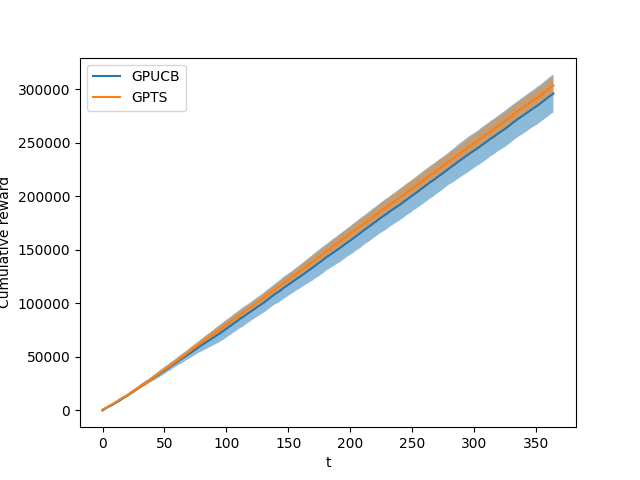
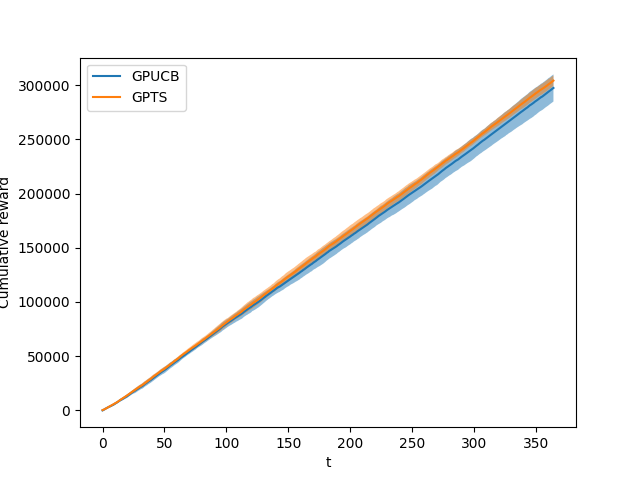
Fixes to step4

diff --git a/step4.py b/step4.py
@@ -21,8 +21,8 @@ def generateContext(n_arms, rewards, pulled_arms, pulled_arms_features, features
 
 	delta = 1
 	for feature in features:
-		indexes1 = np.array( [ i for i,pulled_features in enumerate(pulled_arms_features) if pulled_features[feature] ] )
-		indexes2 = np.array( [ i for i,pulled_features in enumerate(pulled_arms_features) if not pulled_features[feature] ] )
+		indexes1 = np.array( [ i for i,pulled_features in enumerate(pulled_arms_features) if feature in pulled_features and pulled_features[feature] ] )
+		indexes2 = np.array( [ i for i,pulled_features in enumerate(pulled_arms_features) if feature in pulled_features and not pulled_features[feature] ] )
 		
 		if len(indexes1) == 0 or len(indexes2) == 0:
 			continue
@@ -45,14 +45,14 @@ def generateContext(n_arms, rewards, pulled_arms, pulled_arms_features, features
 		expected_reward2 = max(tmp) - np.sqrt(-np.log(delta)/(2*len(rewards2) + 1))
 		
 		tmp = [0] * n_arms
-		for i in range(len(rewards)):
-			tmp[pulled_arms[i]] += rewards[i]
+		for arm, reward in list(zip(np.append(arms1, arms2), np.append(rewards1, rewards2))):
+			tmp[arm] += reward
 		for i in range(n_arms):
-			tmp[i] = tmp[i] / (sum(pulled_arms == i) + 1)
-		expected_reward = max(tmp) - np.sqrt(-np.log(delta)/(2*len(rewards) + 1))
+			tmp[i] = tmp[i] / (sum(np.append(arms1, arms2) == i) + 1)
+		expected_reward = max(tmp) - np.sqrt(-np.log(delta)/(2*len(np.append(rewards1, rewards2) + 1)))
 		
-		prob1 = len(rewards1)/len(rewards) - np.sqrt(-np.log(delta)/(2*len(rewards1) + 1))
-		prob2 = len(rewards2)/len(rewards) - np.sqrt(-np.log(delta)/(2*len(rewards2) + 1))
+		prob1 = len(rewards1)/(len(rewards1) + len(rewards2)) - np.sqrt(-np.log(delta)/(2*len(rewards1) + 1))
+		prob2 = len(rewards2)/(len(rewards1) + len(rewards2)) - np.sqrt(-np.log(delta)/(2*len(rewards2) + 1))
 		
 		print(f'prob1: {prob1}, prob2: {prob2}, exp1: {expected_reward1}, exp2: {expected_reward2}, exp: {expected_reward}')
 		if prob1*expected_reward1 + prob2*expected_reward2 >= expected_reward:
@@ -88,7 +88,7 @@ T = 365 #horizon ricordarsi di cambiare prima del run finale perchè deve essere
 n_experiment = 10
 
 customers = []
-customers.append(Customer('C1', -0.0081, 0.97, 32, 3.8, -1.5, 0.1, 100, {'student': True, 'commuter': True}))
+customers.append(Customer('C1', -0.0081, 0.97, 32, 3.8, -1.5, 0.1, 100, {'student': True}))
 customers.append(Customer('C2', -0.079, 0.89, 46, 3.4, -0.5, -1.5, 80, {'student': False, 'commuter': True}))
 customers.append(Customer('C3', -0.082, 0.79, 35, 3.3, -5, 0.3, 65, {'student': False, 'commuter': False}))
 
@@ -118,8 +118,8 @@ for e in range(0,n_experiment):
 		sold, clicks, clicks_cost, features = env.getReward(pulled_price, pulled_bid)
 		reward = sold * margin[pulled_price] - clicks * clicks_cost
 		gpts_learner.update(pulled_bid, reward, features)
-		ts_learner.update(pulled_price, reward, sold, clicks, features)
-		
+		ts_learner.update(pulled_price, sold * margin[pulled_price] / max([clicks,1]), sold, clicks, features)
+
 		#gpucb Learner
 		beta = 2 * np.log(n_arms_ad * t**2 * np.pi**2 / (6 * 0.05))
 		pulled_bid = gpucb_learner.pull_arm(beta, features)
@@ -127,22 +127,22 @@ for e in range(0,n_experiment):
 		sold, clicks, clicks_cost, features = env.getReward(pulled_price, pulled_bid)
 		reward = sold * margin[pulled_price] - clicks * clicks_cost
 		gpucb_learner.update(pulled_bid, reward, features)
-		ucb1_learner.update(pulled_price, reward, features)
+		ucb1_learner.update(pulled_price, sold * margin[pulled_price] / max([clicks,1]), features)
 		
-		if t%14 == 0:
-			contexts = generateContext(n_arms_pr, ucb1_learner.collected_rewards, ucb1_learner.pulled_arms_idx, ucb1_learner.pulled_features, ['student', 'commuter'])
-			ucb1_learner.updateContexts(contexts)
-			print(f'1: Context at time {t} for experiment {e}: {contexts}')
-			contexts = generateContext(n_arms_pr, ts_learner.collected_rewards, ts_learner.pulled_arms_idx, ts_learner.pulled_features, ['student', 'commuter'])
-			ts_learner.updateContexts(contexts)
-			print(f'2: Context at time {t} for experiment {e}: {contexts}')
+		# if t%14 == 0:
+			# contexts = generateContext(n_arms_pr, ucb1_learner.collected_rewards, ucb1_learner.pulled_arms_idx, ucb1_learner.pulled_features, ['student', 'commuter'])
+			# ucb1_learner.updateContexts(contexts)
+			# print(f'1: Context at time {t} for experiment {e}: {contexts}')
+			# contexts = generateContext(n_arms_pr, ts_learner.collected_rewards, ts_learner.pulled_arms_idx, ts_learner.pulled_features, ['student', 'commuter'])
+			# ts_learner.updateContexts(contexts)
+			# print(f'2: Context at time {t} for experiment {e}: {contexts}')
 			
-			contexts = generateContext(n_arms_ad,gpucb_learner.collected_rewards, gpucb_learner.pulled_arms_idx, gpucb_learner.pulled_features, ['student', 'commuter'])
-			gpucb_learner.updateContexts(contexts)
-			print(f'3: Context at time {t} for experiment {e}: {contexts}')
-			contexts = generateContext(n_arms_ad, gpts_learner.collected_rewards, gpts_learner.pulled_arms_idx, gpts_learner.pulled_features, ['student', 'commuter'])
-			gpts_learner.updateContexts(contexts)
-			print(f'4: Context at time {t} for experiment {e}: {contexts}')
+			# contexts = generateContext(n_arms_ad,gpucb_learner.collected_rewards, gpucb_learner.pulled_arms_idx, gpucb_learner.pulled_features, ['student', 'commuter'])
+			# gpucb_learner.updateContexts(contexts)
+			# print(f'3: Context at time {t} for experiment {e}: {contexts}')
+			# contexts = generateContext(n_arms_ad, gpts_learner.collected_rewards, gpts_learner.pulled_arms_idx, gpts_learner.pulled_features, ['student', 'commuter'])
+			# gpts_learner.updateContexts(contexts)
+			# print(f'4: Context at time {t} for experiment {e}: {contexts}')
 
 	gpts_rewards_per_experiment.append(gpts_learner.collected_rewards)
 	gpucb_rewards_per_experiment.append(gpucb_learner.collected_rewards)

diff --git a/Learners.py b/Learners.py
@@ -104,7 +104,7 @@ class TS_Context_Learner(Learner):
 		for i,context in enumerate(self.contexts):
 			if context.items() <= features.items():
 				return np.argmax(np.random.beta(self.beta_parameters[i,:,0], self.beta_parameters[i,:,1])*self.margin[:])
-		return None
+		return np.argmax(np.random.beta(np.sum(self.beta_parameters[:,:,0], axis=0)/50, np.sum(self.beta_parameters[:,:,1], axis=0)/50) * self.margin[:])
 
 	def update(self, pulled_arm, reward,sold,clicks, features):
 		self.t+=1
@@ -114,6 +114,11 @@ class TS_Context_Learner(Learner):
 			if context.items() <= features.items():
 				self.beta_parameters[i, pulled_arm, 0] = self.beta_parameters[i, pulled_arm, 0] + sold
 				self.beta_parameters[i, pulled_arm, 1] = self.beta_parameters[i, pulled_arm, 1] + clicks - sold
+				return
+				
+		for i,context in enumerate(self.contexts):
+			self.beta_parameters[i, pulled_arm, 0] = self.beta_parameters[i, pulled_arm, 0] + sold
+			self.beta_parameters[i, pulled_arm, 1] = self.beta_parameters[i, pulled_arm, 1] + clicks - sold
 		
 	def update_observations(self,arm_idx, reward, features):
 		super().update_observations(arm_idx,reward)
@@ -121,7 +126,14 @@ class TS_Context_Learner(Learner):
 		self.pulled_features.append(features)
 
 	def updateContexts(self, contexts):
-		new_beta_parameters = np.ones((len(contexts), self.n_arms, 2))
+		new_beta_parameters = np.zeros((len(contexts), self.n_arms, 2))
+		for i in range(len(contexts)):
+			for j in range(len(self.contexts)):
+				new_beta_parameters[i,:,0] += self.beta_parameters[j,:,0]
+				new_beta_parameters[i,:,1] += self.beta_parameters[j,:,1]
+			new_beta_parameters[i,:,0] = new_beta_parameters[i,:,0] / len(self.contexts) / 10
+			new_beta_parameters[i,:,1] = new_beta_parameters[i,:,1] / len(self.contexts) / 10
+			
 		for i, new_context in enumerate(contexts):
 			for j, old_context in enumerate(self.contexts):
 				if old_context.items() <= new_context.items():
@@ -159,15 +171,28 @@ class UCB1_Context_Learner(Learner):
 					self.ucb_values[arm] = average_reward + exploration_term
 
 				return np.argmax(self.ucb_values)
-		return None
+				
+		for arm in range(self.n_arms):
+			average_reward = np.mean([np.mean(self.rewards_per_arm[i, arm]) for i in range(len(self.contexts))])
+			exploration_term = math.sqrt(2 * math.log(max([1, self.t / len(self.contexts)])) / np.sum(self.pulled_arms_counts[:, arm]))
+			self.ucb_values[arm] = average_reward + exploration_term
+
+		return np.argmax(self.ucb_values)
 
 	def update(self, pulled_arm, reward, features):
+		self.t += 1
 		self.update_observations(pulled_arm, reward, features)
+		
 		for i,context in enumerate(self.contexts):
 			if context.items() <= features.items():
 				self.rewards_per_arm[i, pulled_arm].append(reward)
 				self.pulled_arms_counts[i, pulled_arm] += 1
-		self.t += 1
+				return
+				
+		for i,context in enumerate(self.contexts):
+			self.rewards_per_arm[i, pulled_arm].append(reward)
+			self.pulled_arms_counts[i, pulled_arm] += 1
+		
 	
 	def update_observations(self, arm_idx, reward, features):
 		self.collected_rewards = np.append(self.collected_rewards, reward)
@@ -176,34 +201,18 @@ class UCB1_Context_Learner(Learner):
 		self.pulled_features.append(features)
 
 	def updateContexts(self, contexts):
-		new_rewards_per_arm = np.empty((len(contexts), self.n_arms), dtype='O')
+		self.contexts = contexts
+		self.rewards_per_arm = np.empty((len(contexts), self.n_arms), dtype='O')
 		for j in range(self.n_arms):
 			for i in range(len(contexts)):
-				new_rewards_per_arm[i,j] = []
-		new_pulled_arms_counts = np.zeros((len(contexts), self.n_arms))
-		
-		for i, new_context in enumerate(contexts):
-			for j, old_context in enumerate(self.contexts):
-				if old_context.items() <= new_context.items():
-					new_rewards_per_arm[i] =  copy.deepcopy(self.rewards_per_arm[j])
-					new_pulled_arms_counts[i] = copy.deepcopy(self.pulled_arms_counts[j])
-					
-		self.rewards_per_arm = new_rewards_per_arm
-		self.pulled_arms_counts = new_pulled_arms_counts
-		self.contexts = contexts
-		
-		# self.contexts = contexts
-		# self.rewards_per_arm = np.empty((0, n_arms, 0))
-		# self.pulled_arms_counts = np.zeros((0, n_arms))
+				self.rewards_per_arm[i,j] = []
+		self.pulled_arms_counts = np.zeros((len(contexts), self.n_arms))
 
-		# for context in contexts:
-			# self.rewards_per_arm = np.append(self.rewards_per_arm, np.empty(n_arms, 0))
-			# self.pulled_arms_counts = np.append(self.pulled_arms_counts, np.zeros(n_arms))
-
-			# for i,feature in enumerate(self.pulled_features):
-				# if context.items() <= feature.items():
-					# self.rewards_per_arm[-1, pulled_arms_idx[i]] = np.append(self.rewards_per_arm[-1, pulled_arms_idx[i]], self.collected_rewards[i])
-					# self.pulled_arms_counts[i, pulled_arm] += 1
+		for c, context in enumerate(contexts):
+			for i,feature in enumerate(self.pulled_features):
+				if context.items() <= feature.items():
+					self.rewards_per_arm[c, self.pulled_arms_idx[i]].append(self.collected_rewards[i])
+					self.pulled_arms_counts[c, self.pulled_arms_idx[i]] += 1
 		
 		
 class TS_Learner3(Learner):
@@ -319,6 +328,9 @@ class GP_Context_Learner(GPLearner):
 				break
 
 	def update_model(self, features):
+		x=np.atleast_2d(self.pulled_arms).T
+		y=self.collected_rewards
+	
 		for i,context in enumerate(self.contexts):
 			if context.items() <= features.items():
 				x=np.atleast_2d(self.contexted_pulled_arms[i]).T

diff --git a/clairvoyant.py b/clairvoyant.py
@@ -51,10 +51,16 @@ def getOptimal(f_print = False):
 			print('CUSTOMER {}'.format(C.name))
 			print('   Best price: {}'.format(best_price))
 			print('   Best bid: {}'.format(best_bid))
-			print('Total reward: {}'.format(sum(rewards)))
+			print('   Reward: {}'.format(rewards[-1]))
+		
+	best_price = prices[ np.argmax( [ np.average([ C.conversion_probability(price) * sell_margin(price) for C in customers ]) for price in prices] ) ]
+	best_bid = bids[ np.argmax( [ np.average([C.num_clicks(bid) * (C.conversion_probability(best_price) * sell_margin(best_price) - C.click_cost(bid)) for C in customers ])  for bid in bids] ) ]
+	reward = np.average([C.num_clicks(best_bid) * (C.conversion_probability(best_price) * sell_margin(best_price) - C.click_cost(best_bid)) for C in customers])
 		
 	if f_print:
 		print('Total reward: {}'.format(sum(rewards)))
+		print('Average reward: {}'.format(np.average(rewards)))
+		print(f'Reward pulling only one bid {best_bid} and one price {best_price}: {reward}')
 		
 	return (best_prices, best_bids, rewards)
 		
